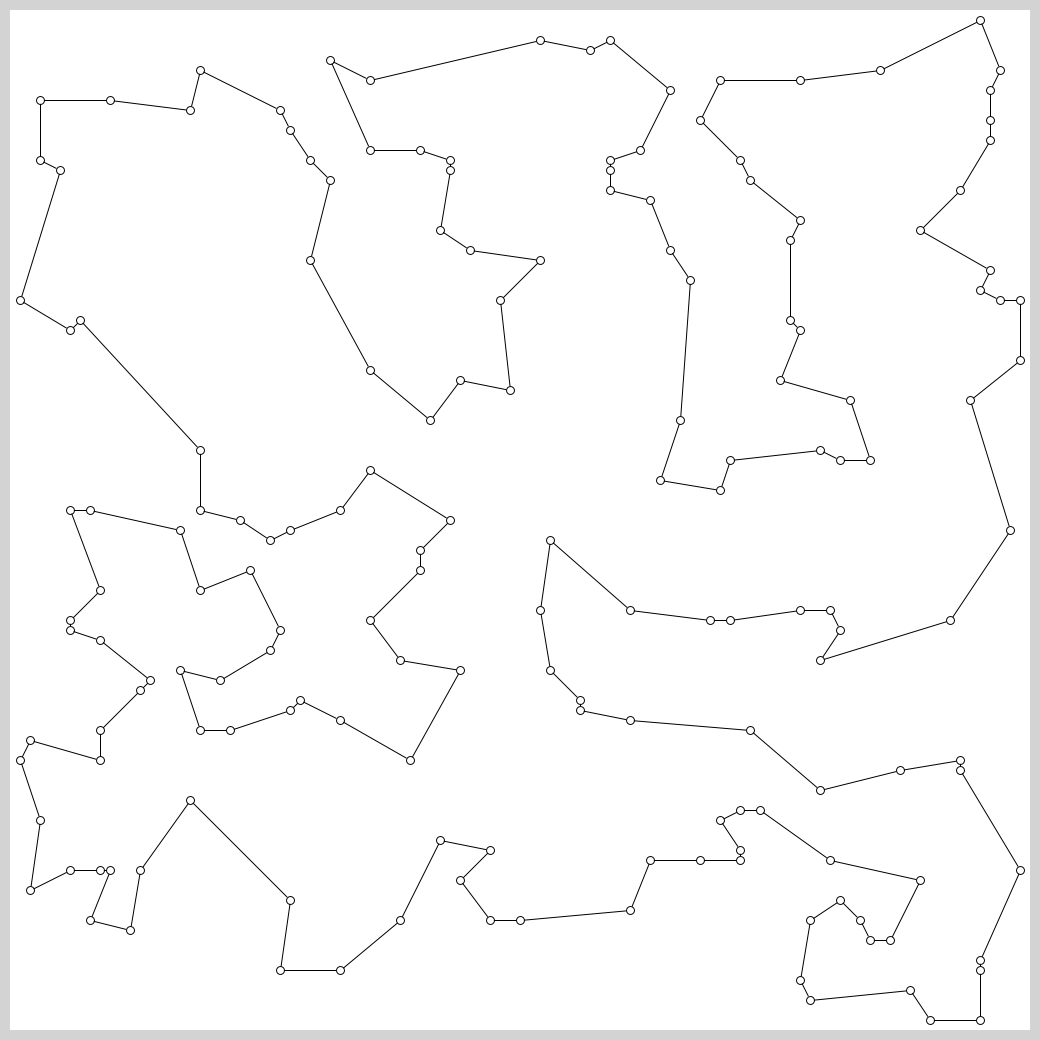
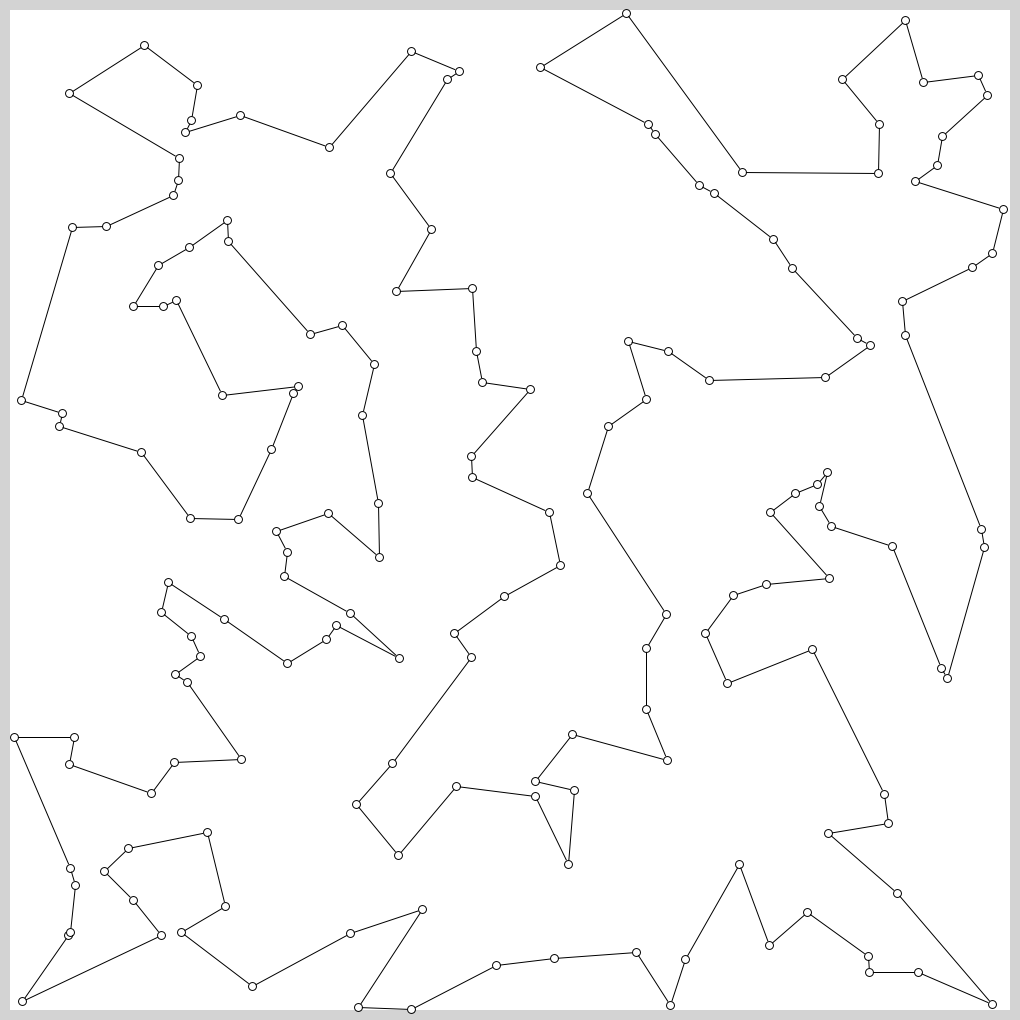
TSPの制約を修正した．

diff --git a/TravelingSalesman/tester/Tester.java b/TravelingSalesman/tester/Tester.java
@@ -27,15 +27,15 @@ public class Tester {
                 for (int i = 0; i < N; i++) {
                     int a = perm[i];
                     int b = perm[(i + 1) % N];
-                    g2.drawLine(posX[a] * 10 + 20, posY[a] * 10 + 20, 
-                                posX[b] * 10 + 20, posY[b] * 10 + 20);
+                    g2.drawLine(posX[a] + 10, posY[a] + 10, 
+                                posX[b] + 10, posY[b] + 10);
                 }
 
                 for (int i = 0; i < N; i++) {
                     g2.setColor(new Color(0xFFFFFF));
-                    g2.fillOval(posX[i] * 10 + 16, posY[i] * 10 + 16, 8, 8);
+                    g2.fillOval(posX[i] + 6, posY[i] + 6, 8, 8);
                     g2.setColor(new Color(0x000000));
-                    g2.drawOval(posX[i] * 10 + 16, posY[i] * 10 + 16, 8, 8);
+                    g2.drawOval(posX[i] + 6, posY[i] + 6, 8, 8);
                 }
 
                 if (numb) {
@@ -43,8 +43,8 @@ public class Tester {
                     FontMetrics fm = g2.getFontMetrics();
                     for (int i = 0; i < N; ++i) {
                         char[] ch = ("" + i).toCharArray();
-                        int x = posX[i] * 10 + 15;
-                        int y = posY[i] * 10 + 15;
+                        int x = posX[i] + 5;
+                        int y = posY[i] + 5;
                         g2.drawChars(ch, 0, ch.length, x, y);
                     }
                 }
@@ -96,17 +96,18 @@ public class Tester {
     static boolean save, vis, numb;
 
     final int MAXN = 1000, MINN = 50;
-    final int SIZE = 100 + 1;
-    final int VIS_SIZE = (SIZE + 3) * 10;
+    final int SIZE = 1000 + 1;
+    final int VIS_SIZE = 1020;
     int N;
     int [] posX, posY;
     int [] perm;
 
     /********************************************************************/
 
-    public void generate (String seedStr) {
-
-        try {   
+    public void generate (String seedStr) 
+    {
+        try 
+        {   
             SecureRandom rnd = SecureRandom.getInstance("SHA1PRNG");
             long seed = Long.parseLong(seedStr);
             rnd.setSeed(seed);
@@ -116,7 +117,6 @@ public class Tester {
             posX = new int[N];
             posY = new int[N];
             boolean [][] usedPos = new boolean[SIZE][SIZE];
-
             for (int i = 0; i < N; ++i) {
                 int x = -1, y = -1;
                 do {
@@ -131,7 +131,6 @@ public class Tester {
             System.err.println("An exception occurred while generating test case.");
             e.printStackTrace();
         }
-
     }
 
     public double runTest (String seed) {
@@ -153,7 +152,7 @@ public class Tester {
                     used[perm[i]] = true;
                 }
             } catch (Exception e) {
-                System.err.println("Failed to get result from permute.");
+                System.err.println("Failed to get result from your answer.");
                 return -1;
             }
 

diff --git a/TravelingSalesman/README.md b/TravelingSalesman/README.md
@@ -5,7 +5,7 @@
 
 ## 制約
 50 <= N <= 1000  
-0 <= xi, yi <= 100  
+0 <= xi, yi <= 1000  
 i ≠ j の時, (xi, yi) ≠ (xj, yj)
 
 
@@ -46,17 +46,16 @@ $ java -jar Tester.jar -exec "<command>" -seed <seed>
 
 ## 目安？
 適当に焼き鈍すとこれぐらいになった．  
-1)  1378.8662340957915
-2)  1418.0769043547557
-3)  1812.6556612111692
-4)  958.281235582922
-5)  1097.787930313046
-6)  2253.558897084062
-7)  1747.8310279198308
-8)  1010.3108701430247
-9)  1164.9143856031271
-10) 1532.9861355671067  
- 
+1) 14505.8335247892    
+2) 15441.672564911707  
+3) 19121.109698157346  
+4) 11055.789315231945  
+5) 12459.234349244418  
+6) 23684.08814985218  
+7) 18258.542573688635  
+8) 10574.732512140734  
+9) 12381.077326132046  
+10) 16209.051106211813  
 
 ##  参考文献
 
